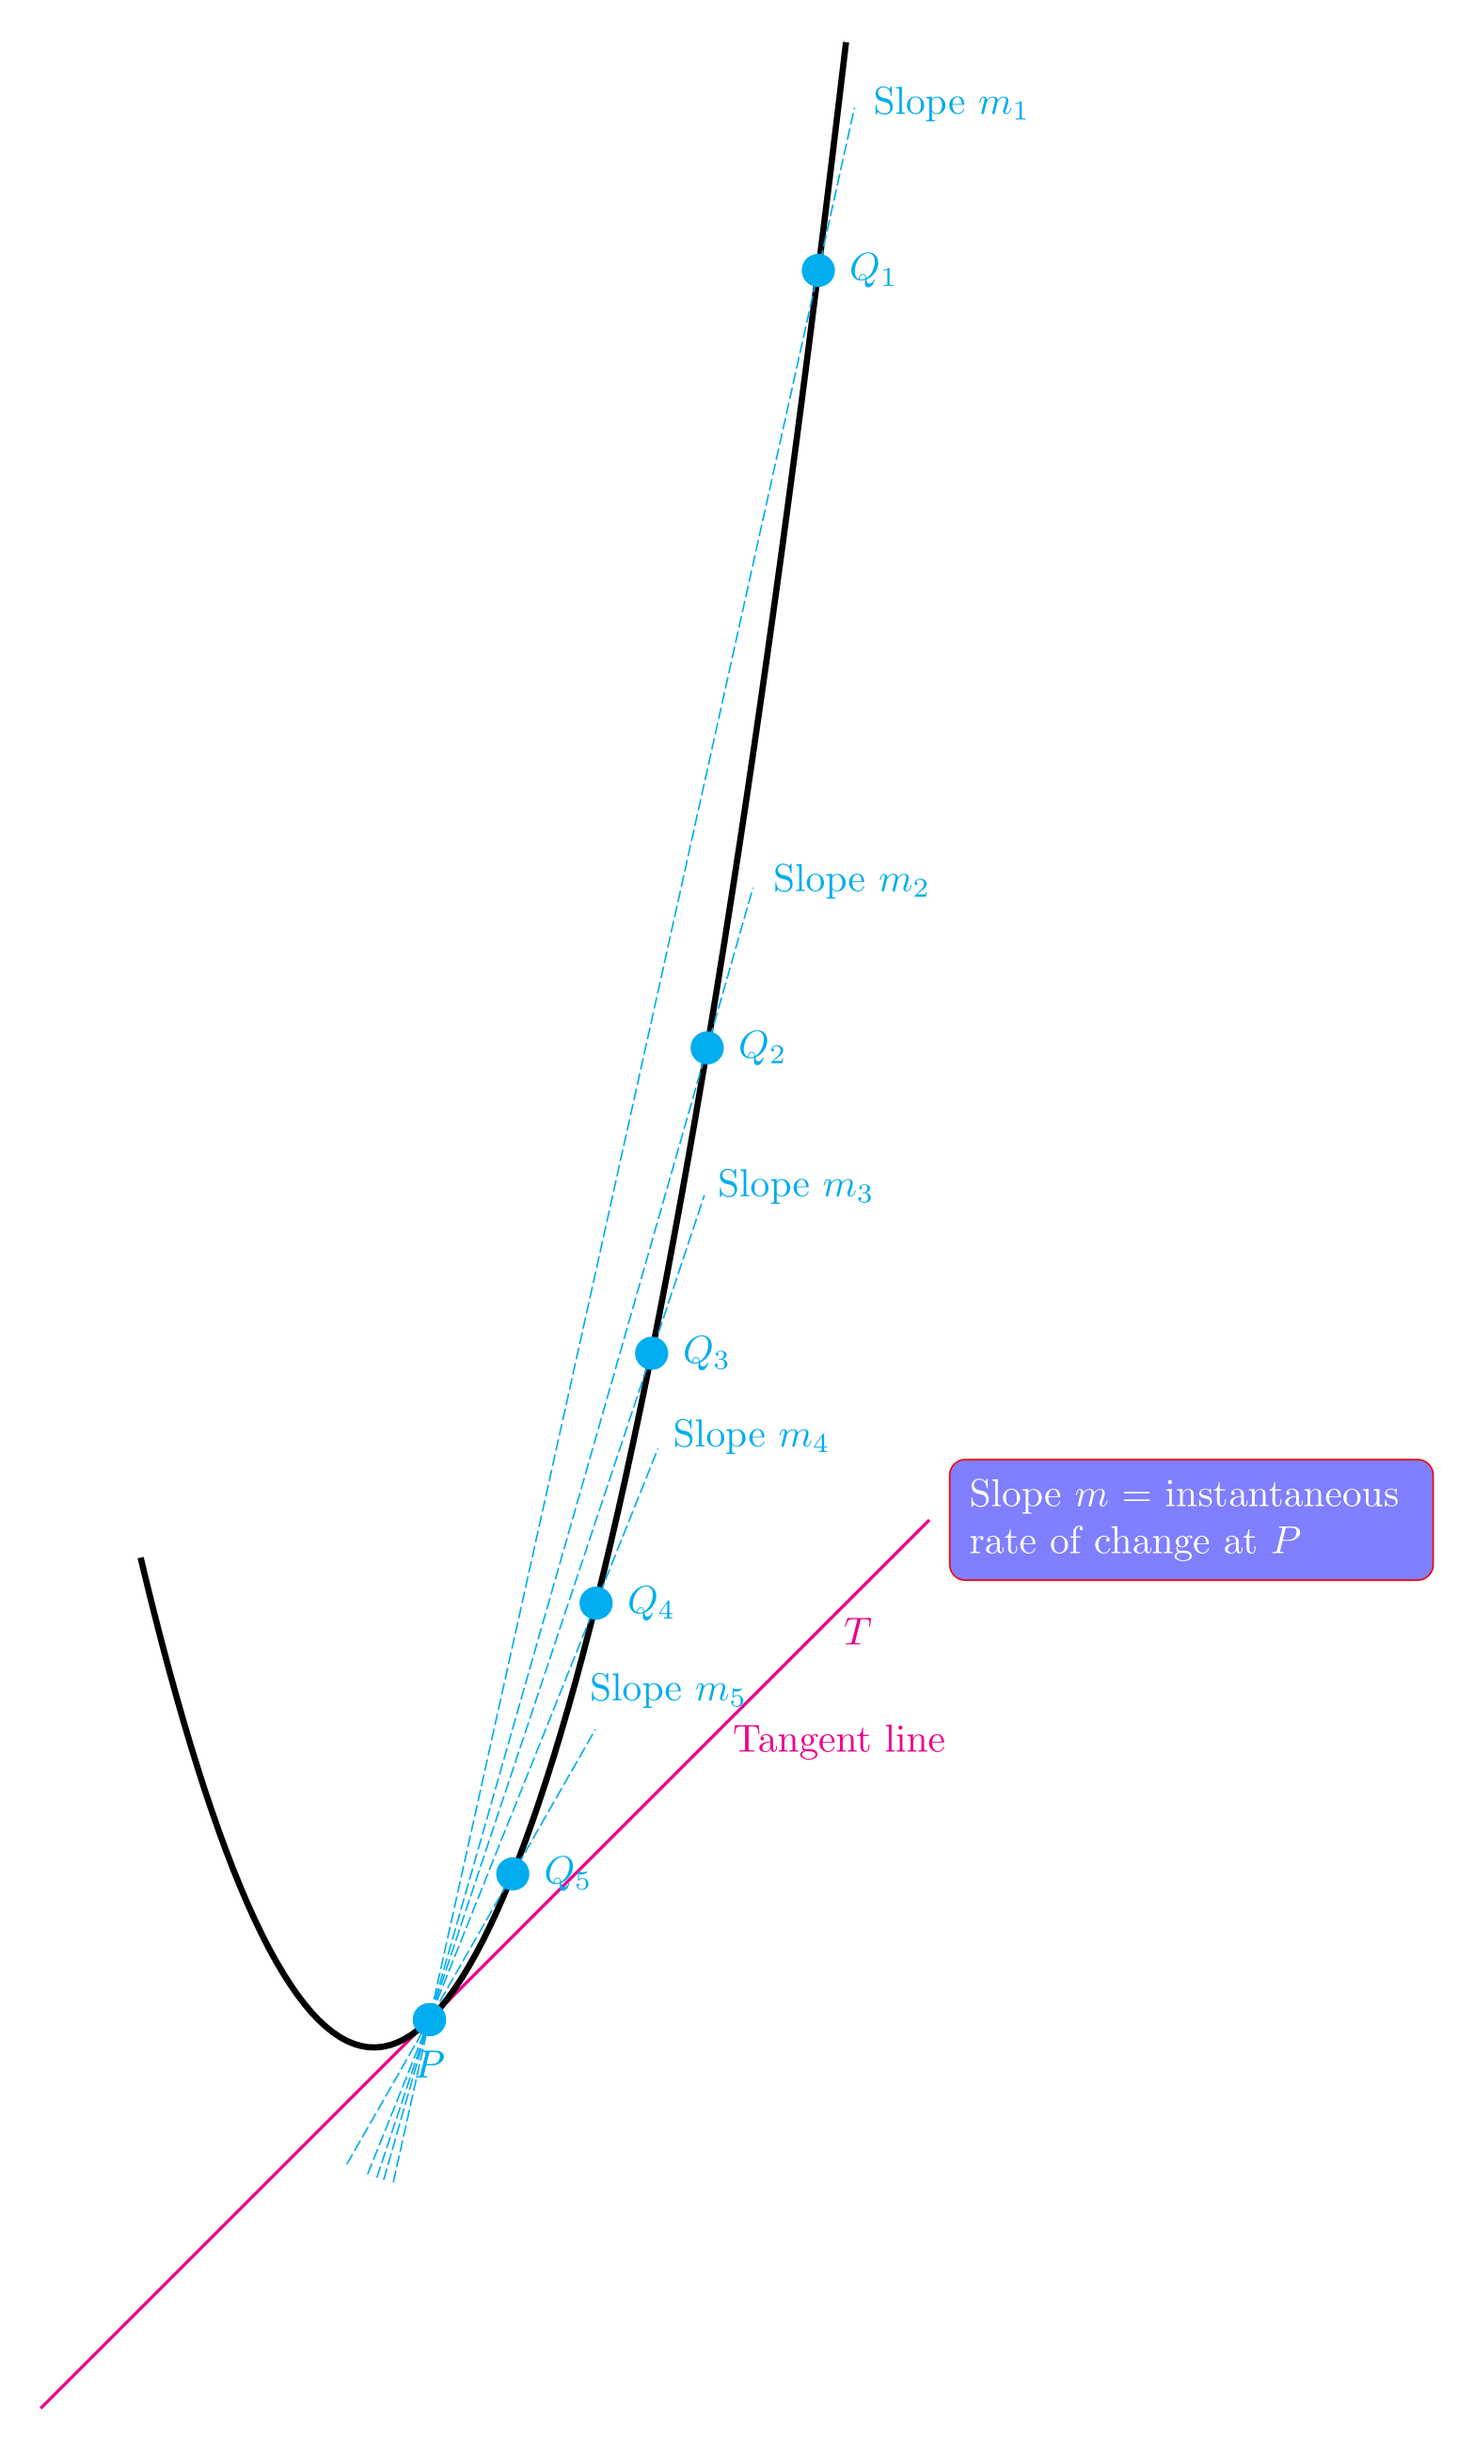
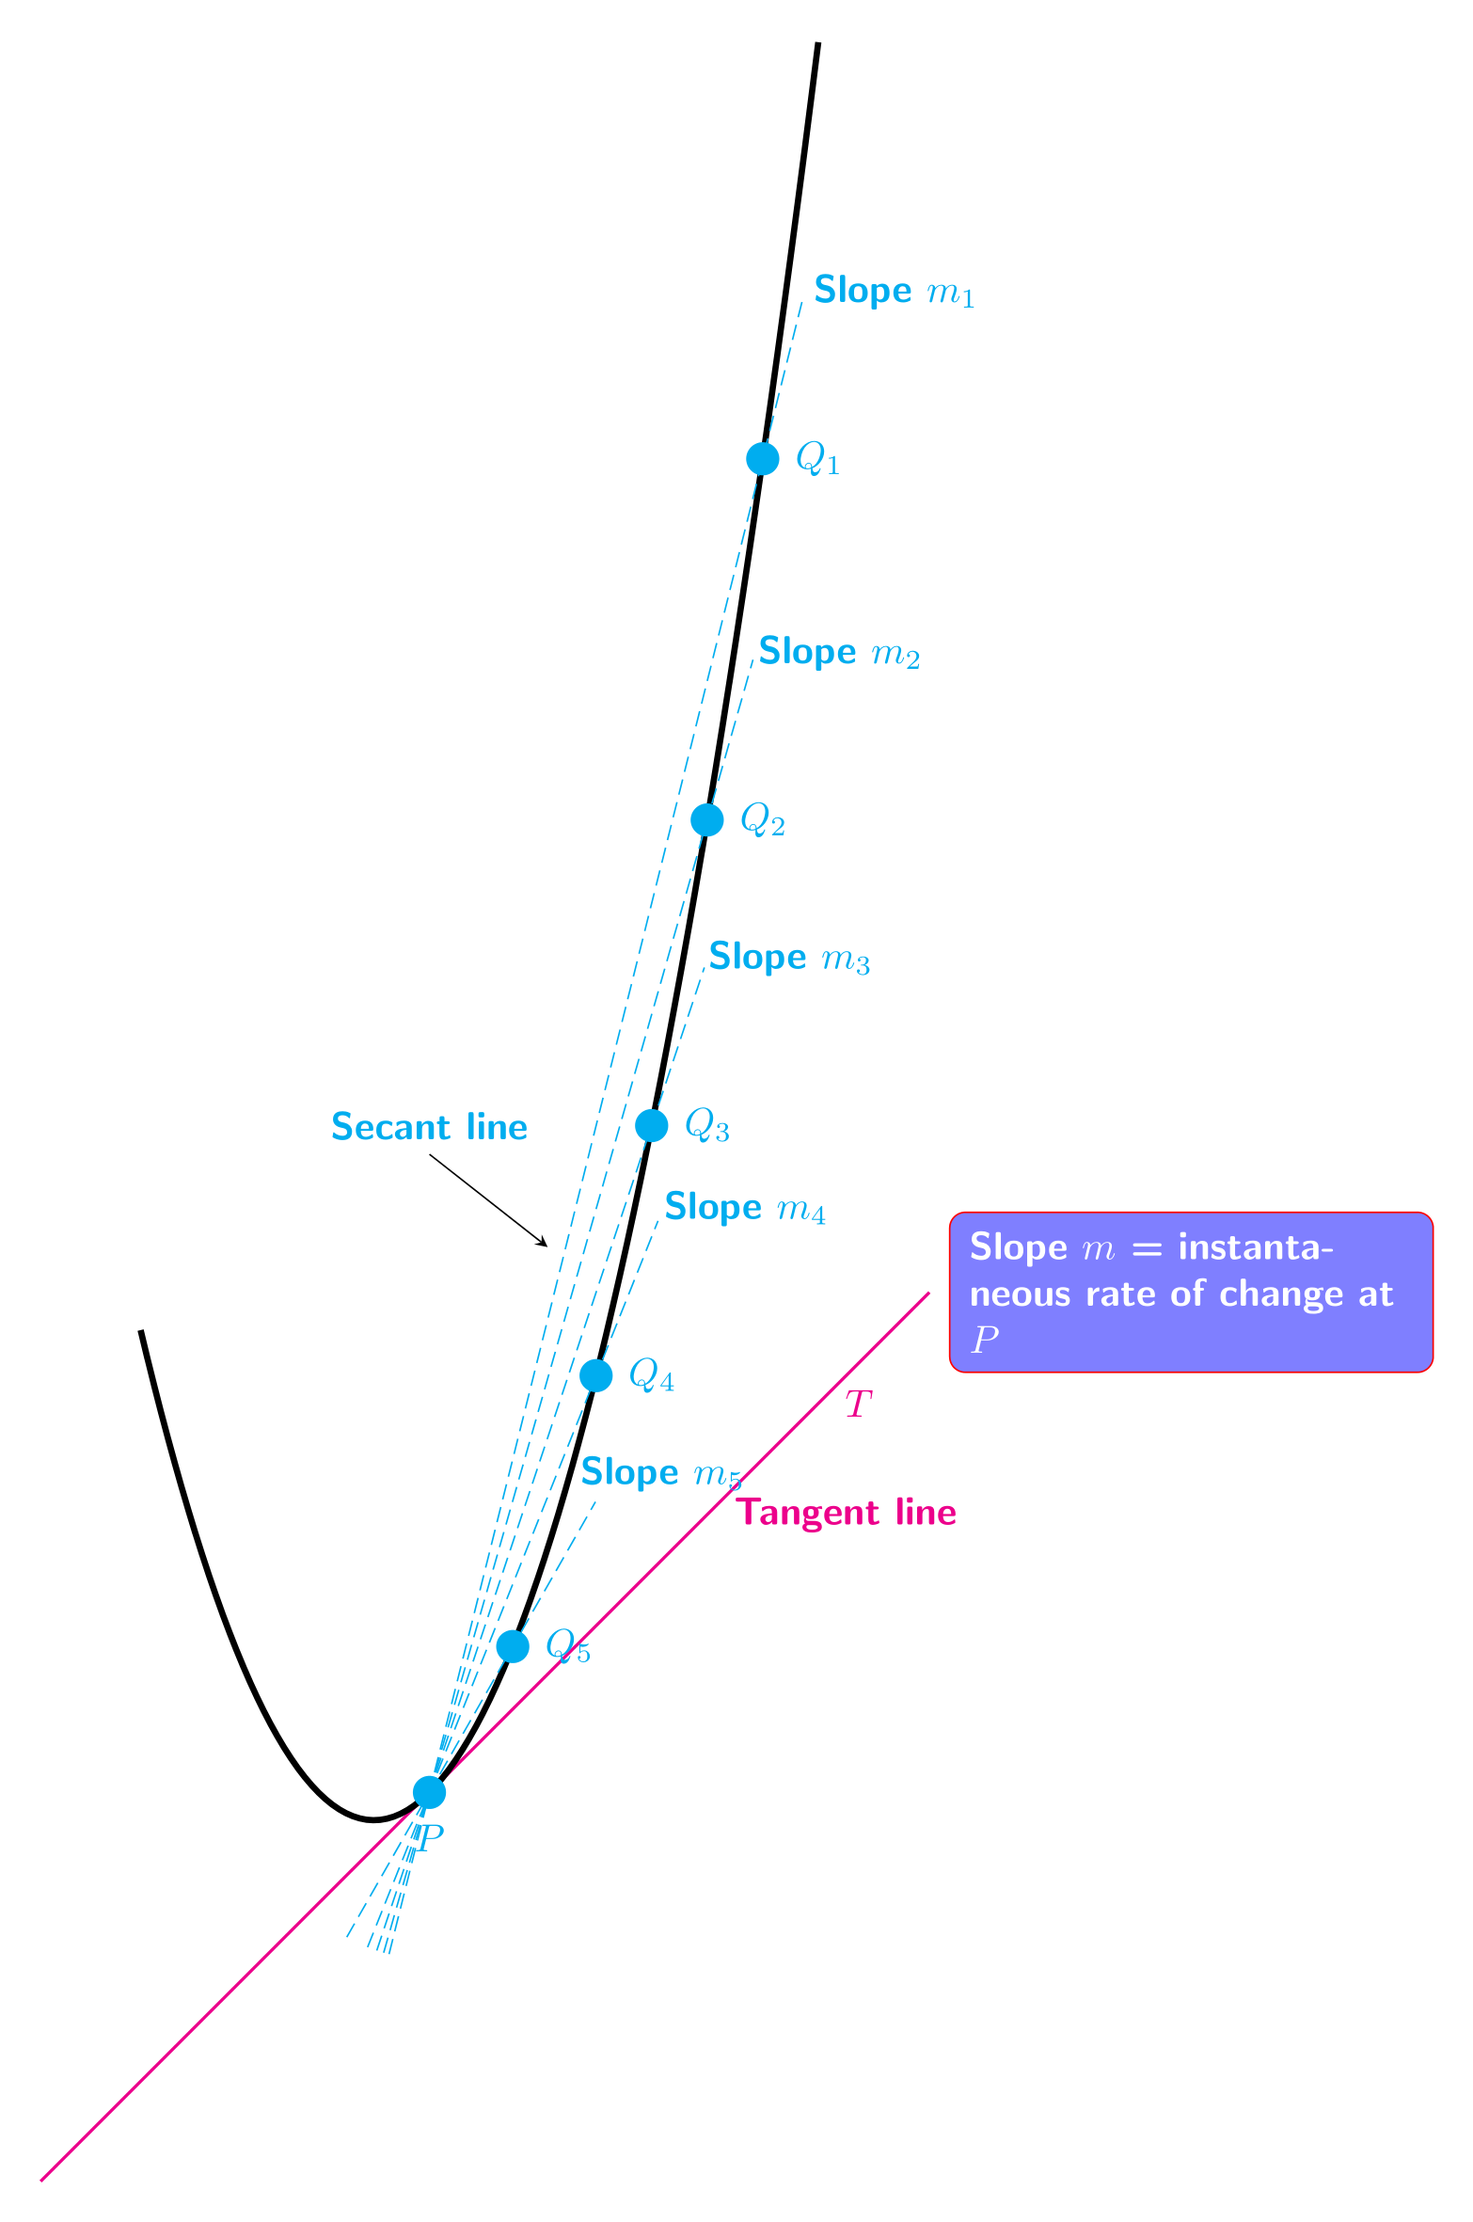
refactor(tikz-tagentline): add line and curve functions to sepecify point

diff --git a/TikZ/TangentLine/main.tex b/TikZ/TangentLine/main.tex
@@ -3,30 +3,42 @@
 \usepackage{tikz}
 
 \tikzset{
+    % declare parabola and line equations
+    declare function={
+        f(\x) = (\x)^2 - 4*\x + 4;
+        g(\x) = \x - 2.25;
+    },
+    % point style
     dot/.style = {fill, circle, inner sep=3pt},
-    dashed line/.style = {dash pattern=on3pt off1pt, shorten >=-1.5cm, shorten <=-1.5cm}
+    % secant line style
+    dashed line/.style = {shorten >=-1.5cm, shorten <=-1.5cm, dash pattern=on4pt off2pt}
 }
 
 \begin{document}
     \begin{tikzpicture}
-        \coordinate (P) at (2.5, 0.25);
-        \coordinate (Q5) at (3.25, 1.5625);
-        \coordinate (Q4) at (4, 4);
-        \coordinate (Q3) at (4.5, 6.25);
-        \coordinate (Q2) at (5, 9);
-        \coordinate (Q1) at (6, 16);
-        
-        \draw[thick, magenta] plot[smooth, domain=-1:7] (\x, {\x - 2.25});
-        \draw[ultra thick] plot[samples=100, domain=-0.1:6.25] (\x, {\x*\x - 4*\x + 4});
-        
-        \draw[cyan, dashed line] (P) node[dot, label={below:$P$}] {} -- (Q5) node[dot, label={right:$Q_5$}] {} node[shift={(1.4cm, 1.65cm)}] {Slope $m_5$};
-        \draw[cyan, dashed line] (P) -- (Q4) node[dot, label={right:$Q_4$}] {} node[shift={(1.4cm, 1.5cm)}] {Slope $m_4$};
-        \draw[cyan, dashed line] (P) -- (Q3) node[dot, label={right:$Q_3$}] {} node[shift={(1.3cm, 1.5cm)}] {Slope $m_3$};
-        \draw[cyan, dashed line] (P) -- (Q2) node[dot, label={right:$Q_2$}] {} node[shift={(1.3cm, 1.5cm)}] {Slope $m_2$};
-        \draw[cyan, dashed line] (P) -- (Q1) node[dot, label={right:$Q_1$}] {} node[shift={(1.2cm, 1.5cm)}] {Slope $m_1$};
-        
-        \draw (5, 2.75) node[right=3pt, magenta] {Tangent line};
-        \draw (6, 3.75) node[right=3pt, magenta] {$T$};
-        \draw (7, 4.75) node[right=5pt, text width=4cm, fill=blue!50, text=white, rounded corners, inner sep=5pt, draw=red] {Slope $m$ = instantaneous rate of change at $P$};
+        \sffamily\bfseries
+        % specify points on parabola
+        \coordinate (P) at (2.5, {f(2.5)});
+        \coordinate (Q5) at (3.25, {f(3.25)});
+        \coordinate (Q4) at (4, {f(4)});
+        \coordinate (Q3) at (4.5, {f(4.5});
+        \coordinate (Q2) at (5, {f(5)});
+        \coordinate (Q1) at (5.5, {f(5.5)});
+        % draw tangent line
+        \draw[thick, magenta] plot[smooth, domain=-1:7] (\x, {g(\x)});
+        % draw parabola
+        \draw[ultra thick] plot[samples=100, domain=-0.1:6] (\x, {f(\x)});
+        % draw secant lines and label points
+        \draw[cyan, dashed line] (P) node[dot, label={below:$P$}] {} -- (Q5) node[dot, label={right:$Q_5$}] {} node[shift={(1.35cm, 1.55cm)}] {Slope $m_5$};
+        \draw[cyan, dashed line] (P) -- (Q4) node[dot, label={right:$Q_4$}] {} node[shift={(1.35cm, 1.5cm)}] {Slope $m_4$};
+        \draw[cyan, dashed line] (P) -- (Q3) node[dot, label={right:$Q_3$}] {} node[shift={(1.25cm, 1.5cm)}] {Slope $m_3$};
+        \draw[cyan, dashed line] (P) -- (Q2) node[dot, label={right:$Q_2$}] {} node[shift={(1.2cm, 1.5cm)}] {Slope $m_2$};
+        \draw[cyan, dashed line] (P) -- (Q1) node[dot, label={right:$Q_1$}] {} node[shift={(1.2cm, 1.5cm)}] {Slope $m_1$} node[pos=0.4] (PQ1) {};
+
+        \draw (5, {g(5)}) node[right=3pt, magenta] {Tangent line};
+        \draw (6, {g(6)}) node[right=3pt, magenta] {$T$};
+        \draw (7, {g(7)}) node[right=5pt, text width=4cm, fill=blue!50, text=white, rounded corners, inner sep=5pt, draw=red] {Slope $m$ = instantaneous rate of change at $P$};
+        \draw (2.5, {f(4.5)}) node[cyan] (secant line) {Secant line};
+        \draw[-stealth] (secant line.south) -- (PQ1);
     \end{tikzpicture}
 \end{document}
